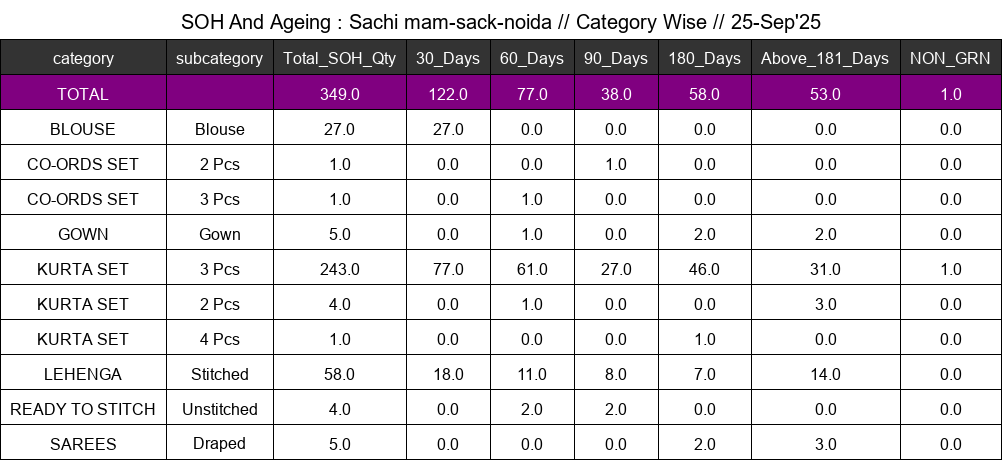
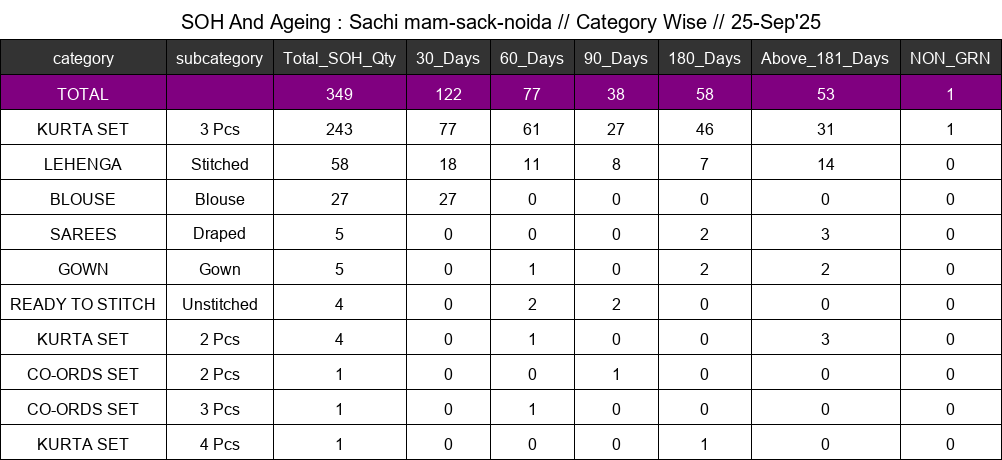
sorting and formatting

diff --git a/generate_tables.py b/generate_tables.py
@@ -1,22 +1,17 @@
 import pandas as pd
 import pyodbc
-import matplotlib.pyplot as plt
-from pandas.plotting import table
-from datetime import datetime
 import os
-from PIL import Image, ImageDraw, ImageFont
+import yaml
+from datetime import datetime
 from tableimage import TableImage
 from credentials import server, database, username, password
 
+# Folders
+QUERY_FOLDER = "queries"
+OUTPUT_FOLDER = "output_images"
+os.makedirs(OUTPUT_FOLDER, exist_ok=True)
 
-
-
-# SQL Server connection details
-# server = 'libdata.c6rymyb13gs0.us-east-1.rds.amazonaws.com'
-# database = 'libdata'
-# username = 'avik_jain'
-# password = 'libas123'
-
+# DB connection
 connection_string = (
     f'DRIVER={{ODBC Driver 17 for SQL Server}};'
     f'SERVER={server};'
@@ -25,86 +20,110 @@ connection_string = (
     f'PWD={password};'
 )
 
-# Folder containing queries and messages
-QUERY_FOLDER = "queries"
-OUTPUT_FOLDER = "output_images"
-os.makedirs(OUTPUT_FOLDER, exist_ok=True)
-
 def read_file(filepath):
     with open(filepath, "r") as f:
         return f.read()
 
-def generate_table_image(df, header_text, output_file):
+def read_yaml(filepath):
+    with open(filepath, "r") as f:
+        return yaml.safe_load(f)
+
+def generate_table_image(df, config, output_file):
+    # --------------------------
+    # 1. Apply dtypes if specified
+    # --------------------------
+    if "dtypes" in config:
+        for col, dtype in config["dtypes"].items():
+            try:
+                df[col] = df[col].astype(dtype)
+            except Exception:
+                pass  # fallback if type casting fails
 
     # --------------------------
-    # 1. Create totals row
+    # 2. Apply sorting
+    # --------------------------
+    if "sort" in config:
+        for rule in config["sort"]:
+            col = rule["column"]
+            asc = rule.get("ascending", True)
+            if col in df.columns:
+                df = df.sort_values(by=col, ascending=asc, ignore_index=True)
+
+    # --------------------------
+    # 3. Create totals row
     # --------------------------
     numeric_cols = df.select_dtypes(include='number').columns
     totals = df[numeric_cols].sum().to_dict()
     totals_row = {col: totals.get(col, '') for col in df.columns}
-    # Assume first column is non-numeric label
     totals_row[df.columns[0]] = 'TOTAL'
     df_with_totals = pd.concat([pd.DataFrame([totals_row]), df], ignore_index=True)
 
     # --------------------------
-    # 2. Determine row and cell styling
+    # 4. Formatting
     # --------------------------
-    totals_row_index = 0  # Since totals row is at the top
+    formatting = config.get("formatting", {})
+    header_row_bg = formatting.get("header", {}).get("bg", "#333333")
+    header_fg = formatting.get("header", {}).get("fg", "#ffffff")
 
-    # Row-specific background and foreground
-    row_bg_dict = {totals_row_index: "#800080"}  # purple
-    row_fg_dict = {totals_row_index: "#ffffff"}  # white text
+    row_bg_dict = {}
+    row_fg_dict = {}
+    col_bg_dict = {}
+    col_fg_dict = {}
 
-    # Header styling
-    header_row_bg = "#333333"  # dark grey
-    header_fg = "#ffffff"
+    # Row formatting (e.g., TOTAL row)
+    if "rows" in formatting:
+        for key, style in formatting["rows"].items():
+            # match by label in first col
+            idx = df_with_totals.index[df_with_totals.iloc[:, 0] == key].tolist()
+            for i in idx:
+                if "bg" in style: row_bg_dict[i] = style["bg"]
+                if "fg" in style: row_fg_dict[i] = style["fg"]
+
+    # Column formatting
+    if "columns" in formatting:
+        for col, style in formatting["columns"].items():
+            if col in df_with_totals.columns:
+                j = df_with_totals.columns.get_loc(col)
+                if "bg" in style: col_bg_dict[j] = style["bg"]
+                if "fg" in style: col_fg_dict[j] = style["fg"]
 
     # --------------------------
-    # 3. Generate table image
+    # 5. Render table
     # --------------------------
     table_img = TableImage(
         df_with_totals,
-        heading=header_text,
-        heading_font_size=20,  # bigger heading
+        heading=config["heading"].replace("{date}", datetime.today().strftime("%d-%b'%y")),
+        heading_font_size=20,
         cell_font_size=16,
         cell_padding=10,
         header_row_bg=header_row_bg,
         header_fg=header_fg,
         row_bg_dict=row_bg_dict,
         row_fg_dict=row_fg_dict,
+        column_bg=col_bg_dict,
+        column_fg=col_fg_dict,
         border_color="black"
     )
 
     table_img.render(save_path=output_file)
-
-
 
 def main():
     try:
         cnxn = pyodbc.connect(connection_string)
         print("Connection successful!")
 
-        # Loop through all queries
         for filename in os.listdir(QUERY_FOLDER):
             if filename.endswith(".sql"):
                 query_file = os.path.join(QUERY_FOLDER, filename)
-                msg_file = query_file.replace(".sql", ".txt")
+                yaml_file = query_file.replace(".sql", ".yaml")
 
                 query = read_file(query_file)
-                msg_template = read_file(msg_file)
+                config = read_yaml(yaml_file)
 
-                # Replace date placeholder
-                today_str = datetime.today().strftime("%d-%b'%y")
-                header_text = msg_template.replace("{date}", today_str)
-
-                # Execute query
                 df = pd.read_sql_query(query, cnxn)
-
-                # Output image file name
                 output_file = os.path.join(OUTPUT_FOLDER, filename.replace(".sql", ".png"))
 
-                # Generate table image
-                generate_table_image(df, header_text, output_file)
+                generate_table_image(df, config, output_file)
 
     except pyodbc.Error as ex:
         print(f"Connection failed: {ex}")
